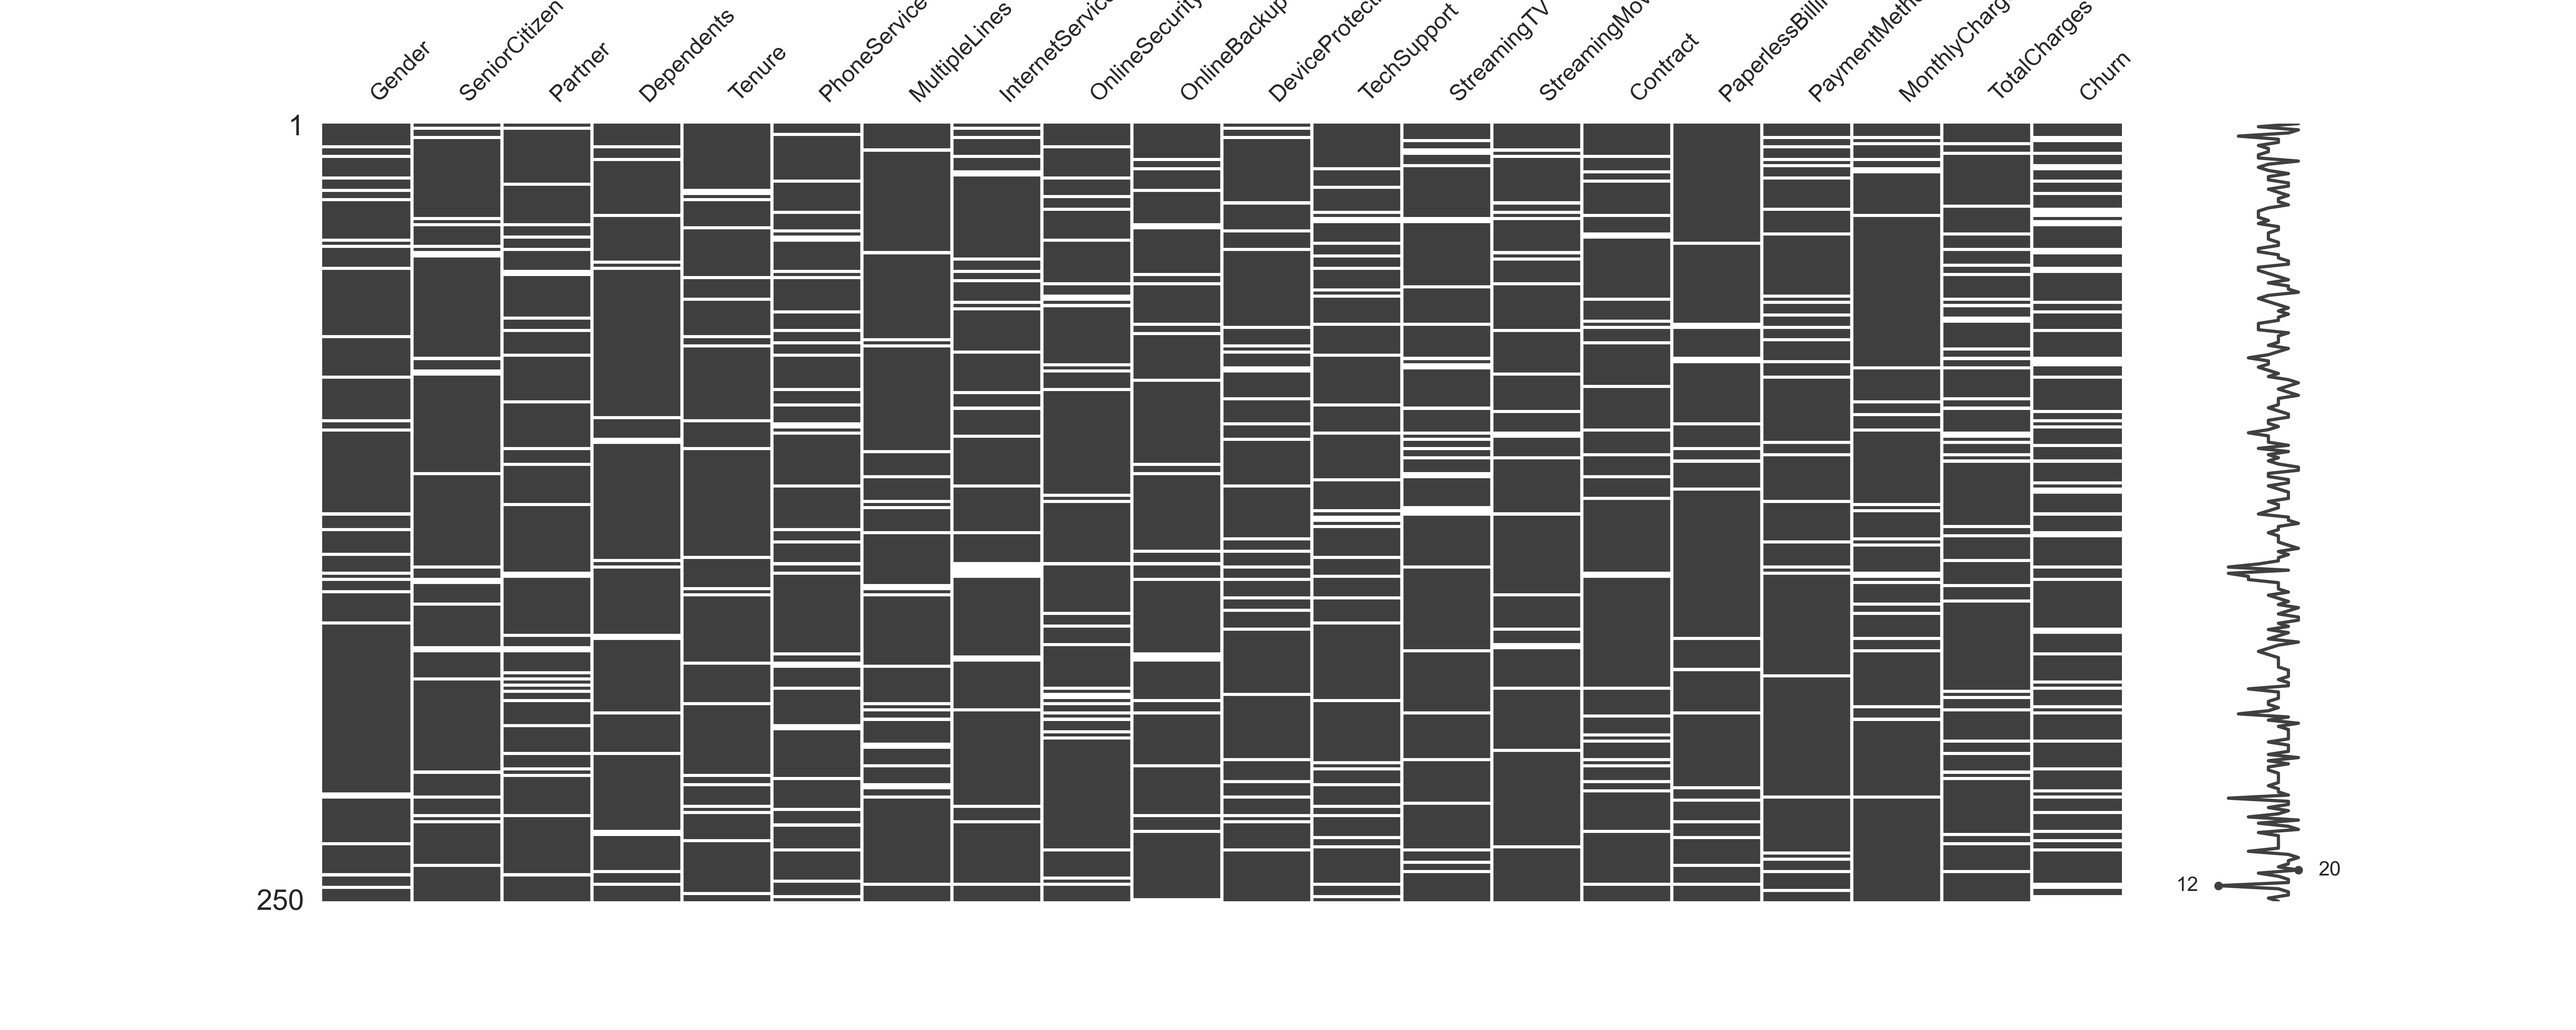
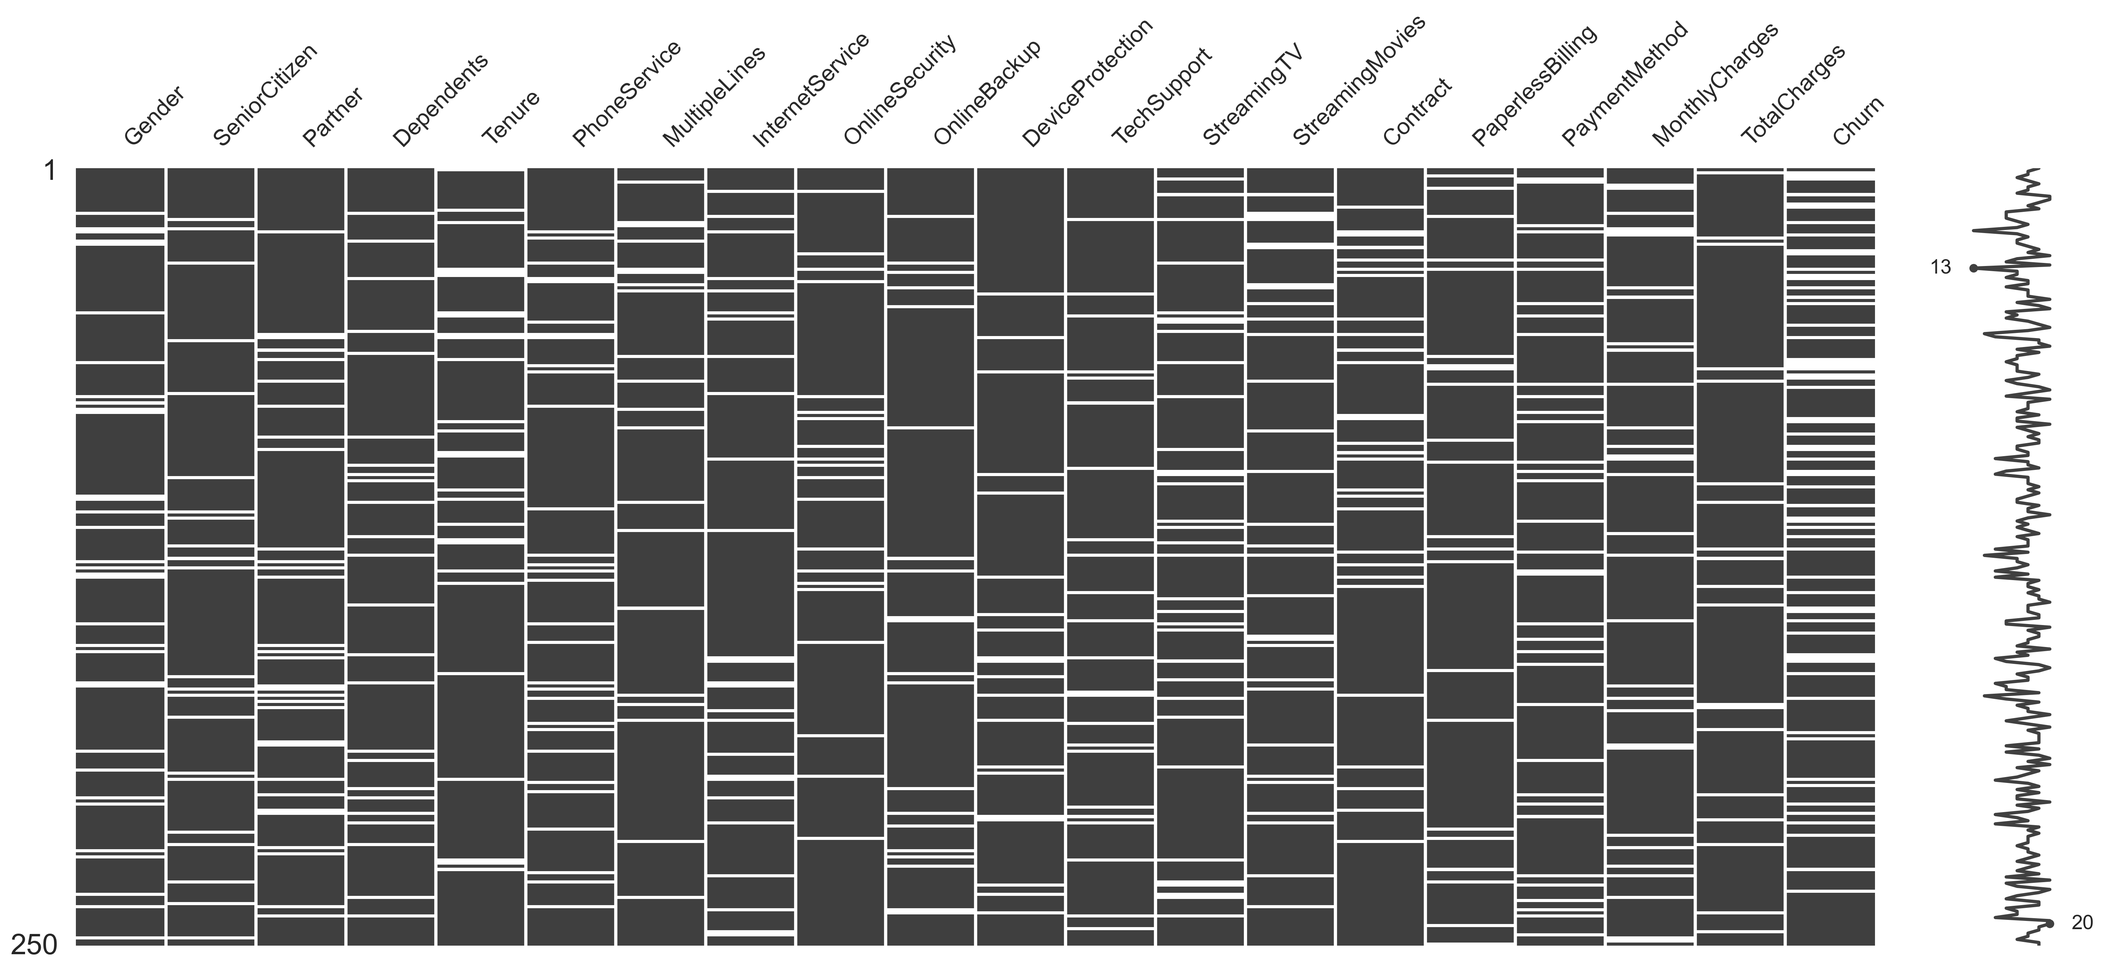
blockquote tweaks, finished styling

diff --git a/sass/style.sass b/sass/style.sass
@@ -37,10 +37,59 @@ a.no-dec
 p a:hover 
   color: #ddd
 
+//blockquote
+//  padding-left: 1rem
+//  border-left: 4px solid #ccc
+//  color: #555
+
+$background: #fff
+$color: #ff0201
+
 blockquote
-  padding-left: 1rem
-  border-left: 4px solid #ccc
-  color: #555
+  border-left: 3px solid #444 //$color
+  color: #1a1a1a
+  font-family: Georgia, Times, "Times New Roman", serif
+  font-size: 1.25em
+  font-style: italic
+  line-height: 1.8em
+  margin: 1.1em -4em
+  padding: 1em 2em
+  position: relative
+  transition: .2s border ease-in-out
+  z-index: 0
+  &:before
+    content: ""
+    position: absolute
+    top: 50%
+    left: -4px
+    height: 2em
+    background-color: $background
+    width: 5px
+    margin-top: -1em
+  &:after
+    content: "\275d"
+    position: absolute
+    top: 50%
+    left: -0.5em
+    color: $color
+    font-family: "Ionicons"
+    font-style: normal
+    line-height: 1em
+    text-align: center
+    text-indent: -2px
+    width: 1em
+    margin-top: -0.5em
+    transition: .2s all ease-in-out, .4s transform ease-in-out
+  &.format:before, &.format:after
+    display: none
+  &:active:after
+    transform: rotateY(360deg)
+    
+  cite
+    display: block
+    font-size: 0.75em
+    line-height: 1.8em
+    margin-top: 1em
 
 a.anchor
   display: block;

diff --git a/templates/shortcodes/jsplot.html b/templates/shortcodes/jsplot.html
@@ -7,8 +7,8 @@
       <style type="text/css">
           .pagecontainer {display:none;}
       </style>
-      <div class=img-with-caption>
-        <img src={{ img }} width=30>
+      <div class=img-with-caption style="max-width: 75%">
+        <img src={{ img }}>
         <div class=img-caption>{{caption}}</div>
       </div>
   </noscript>

diff --git a/templates/shortcodes/image.html b/templates/shortcodes/image.html
@@ -1,5 +1,7 @@
-<div class=img-with-caption>
+<div class=img-with-caption style="max-width: 90%">
   <img src={{src}}>
-  <div class=img-caption>{{caption}}</div>
+  <center>
+    <div class=img-caption>{{caption}}</div>
+  </center>
 </div>
 

diff --git a/content/blog/sparsity.md b/content/blog/sparsity.md
@@ -15,8 +15,6 @@ theme = "light-transparent"
 bokeh = true
 +++
 
-# Intro
-
 Incomplete datasets are a fact of life in almost every discipline. All
 but the most meticulously curated datasets are going to have some degree
 of missing information. How does one handle modeling processes when these gaps are present?
@@ -51,14 +49,16 @@ this can add significantly to development time.
 Once a model pipeline is in place, one can go back and _"let's see if this different
 preprocessing step increases the model's performance..."_.
 
-Wouldn't it be far better for a predictive model to be able to grasp
-the concept of incomplete data? 
-We want a platform that's built to understand that "we'll rarely know all the attributes, and that's okay."_
+The requirement of filling data or dropping samples seems wholly unnatural and unnecessary.
+Shouldn't your model be able to grasp the concept of incomplete data? 
+We want a platform that's built to understand that _"we'll rarely know everything, and that's okay."_
 
-# Reformer: Built to handle incomplete data
+> **Shouldn't a model be able to grasp the concept of incomplete data?**
 
-Customer data is often plagued
-with incomplete information. In this example, we will use the mercifully complete
+# Reformer: Working with what you've got
+
+Customer data is often plagued with incomplete information.
+In this example, we will use the mercifully complete
 [Telco Customer Churn](https://www.kaggle.com/blastchar/telco-customer-churn)
 dataset and induce some artificial sparsity. A certain proportion (10%, for
 starters) of the information will be dropped "Missing Completely at Random"
@@ -75,14 +75,25 @@ df = pd.read_csv("telco_churn.csv", index_col="id")
 
 # A helper function that drops 10% of all feature values
 missing_df = missing_completely_at_random(df, frac=0.1, target="Churn")
+missing_df.to_csv("telco_missing_10.csv")
 
 mno.matrix(missing_df.sample(250))
 ```
-![Missing Data Visualization](/img/sparsity/mno.png)
+<div style="width: 100%; display: table;">
+    <div style="display: table-row; height: 100px;">
+        <div style="width: 50%; display: table-cell;">
+            {{ image(src="/img/sparsity/mno.png", caption="10% of all feature values removed at random.") }}
+        </div>
+        <div style="display: table-cell;"> 
+            {{ image(src="/img/sparsity/mno_90.png", caption="90% of all feature values removed at random.") }}
+        </div>
+    </div>
+</div>
 
 Here, the black bars indicate where we have data, and the white gaps
-between them represent missing values. In this case, 10% of feature
+between them represent missing values. In this case, 10% (left) of feature
 data is missing, and 25% of samples are unlabeled (have no `Churn` value).
+A 90% missing dataset is also prepared for later use (right).
 
 Now we run the Reformer engine on this new dataset and impute all missing
 target values.
@@ -93,6 +104,9 @@ preprocessing steps** for training and imputation to work
 * One does not need to specify which samples require imputation.
 Reformer will provide a prediction for each one that is missing
 a `Churn` value.
+
+These predictions can be compared against the true values by whatever evaluation
+metric desired.
 
 ```python
 import redpoll as rp
@@ -115,7 +129,7 @@ id              uncertainty     Churn
 0280-XJGEX	0.093614	No
 5129-JLPIS	0.002760	No
 3655-SNQYZ	0.004449	No
-...	...	...
+...             ...             ...
 9710-NJERN	0.009755	No
 7203-OYKCT	0.004449	No
 8456-QDAVC	0.015933	Yes
@@ -125,15 +139,12 @@ id              uncertainty     Churn
 1761 rows × 2 columns
 ```
 
-These values can be compared against the true values by whatever evaluation
-metric desired.
-
 ## Impute Every Feature
 
 Now, we have a dataset in which 10% of the features values are missing.
 Reformer, without any additional configuration or commmands, stands ready
 to impute **any other feature** that exists in the dataset.
-This applies to both categorical and numeric imputation tasks.
+This applies to both categorical and numeric values.
 
 ```python
 client.impute("MonthlyCharges")
@@ -145,7 +156,7 @@ id              uncertainty	MonthlyCharges
 7469-LKBCI	0.001955	19.962660
 0280-XJGEX	0.110770	91.588106
 4183-MYFRB	0.126903	87.122360
-...	...	...
+...             ...             ...
 7203-OYKCT	0.029650	98.639224
 9281-CEDRU	0.239033	67.092866
 2234-XADUH	0.029650	98.639224
@@ -157,7 +168,6 @@ id              uncertainty	MonthlyCharges
 This stands apart from the current paradigm of operational data science:
 _one must always decide the question we want to ask before modeling._
 Reformer lets you ask any question you want **without any retraining or reconfiguration.**
-
 
 # How much sparsity can Reformer handle?
 
@@ -180,9 +190,11 @@ Here we see the accuracy metric for each categorical feature as a function of
 information loss:
 
 {{
-    jsplot(path="static/img/sparsity/reformer_telco_accuracy_headless.html",
-    img="/img/sparsity/reformer-accuracy.png",
-    caption="test")
+    jsplot(
+        path="static/img/sparsity/reformer_telco_accuracy.html",
+        img="/img/sparsity/reformer_accuracy.png",
+        caption="test"
+    )
 }}
 
 It's worth taking a step back and appreciating that each vertical slice of this
@@ -197,6 +209,7 @@ a single feature.
 The key takeaway here is: **Reformer can handle any degree of sparsity and deliver
 without any preprocessing**.
 
+
 ### Comparison to Stock Models
 
 Performance metrics on their own are difficult to gauge without something to compare
@@ -205,34 +218,33 @@ prediction at varying levels of sparsity.
 
 This adds multiple additional steps just to get most models functioning at all.
 In order to do so with something like a Random Forest Classifier (RFC), we will need to
-perform the following preprocessing:
+perform the following preprocessing steps:
 
 1. Calculate the modes (categorical) and means (numeric) of all features
 1. Fill all missing values with mode/mean values, since RFC cannot handle missing info
 1. Encode all categorical features into numeric/boolean types (here, one-hot encoded), since RFC cannot handle non-numeric
 1. Train the RFC, specifying the feature set and the target at training
 
-
 {{
     jsplot(
         path="static/img/sparsity/reformer_rfc.html",
         img="/img/sparsity/reformer_rfc.png",
-        caption="test"
+        caption="Reformer and RandomForest (with extensive pre-processing) predicting Churn with respect to data sparsity"
     )
 }}
 
-Reformer performs at the same level as a stock model, while
+Reformer attains performance at the same level as as stock models, while
 * Being robust against missing values
 * Supporting all standard data types
 * Retaining the ability to make imputations on all features in the dataset
 
-# Conclusion
+# Wrapping Up
 
 Here, we have exhibited the novel flexibility of Reformer to model **the whole dataset** as
-it is, without additional steps to make the metaphorical square peg fit into the round hole.
+it is, without additional steps, even if it's not whole.
 
-As the sparsity increased in the above example, the data began to resemble a whole different
-brand of dataset — an unstructured recommender-engine style dataset. In an upcoming post, we will
+As the sparsity increased in the above example, the data begins to resemble a different
+genre of dataset — an unstructured recommender-engine style dataset. In an upcoming post, we will
 show how the same Reformer engine, without any changes in configuration, could be used to model
 even these kinds of situations with the _MovieLens 100k_ dataset.
 
